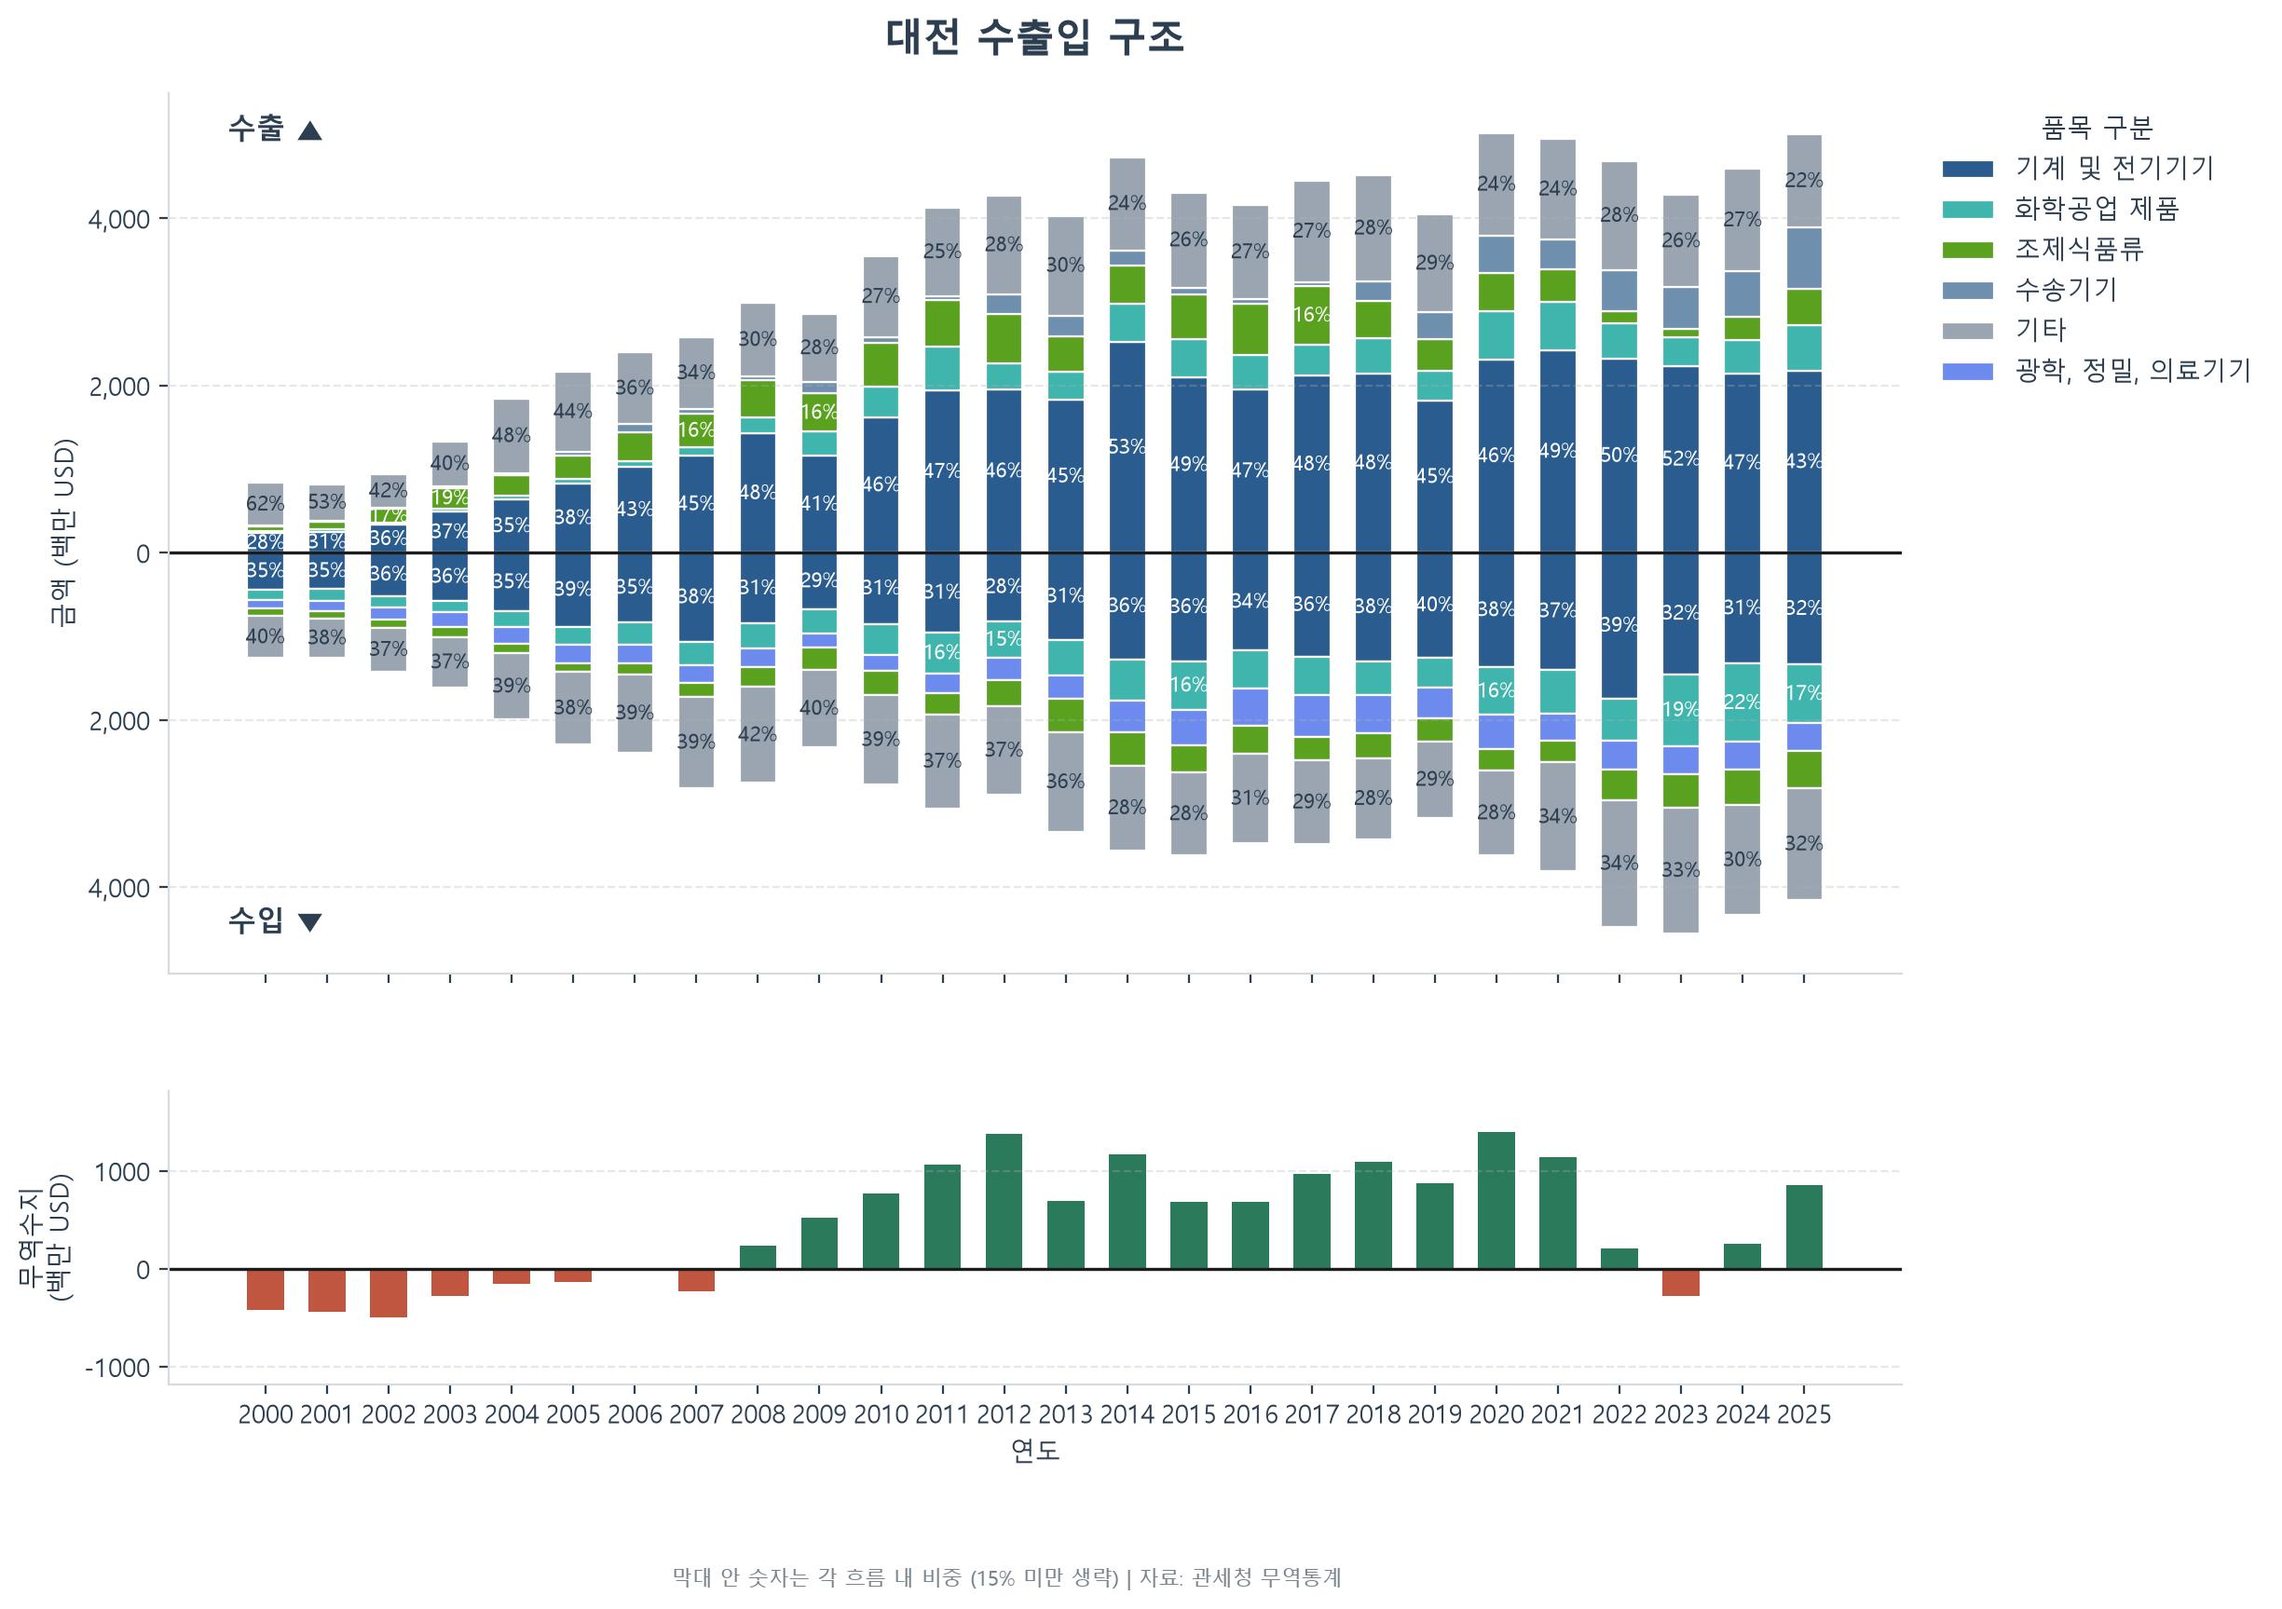
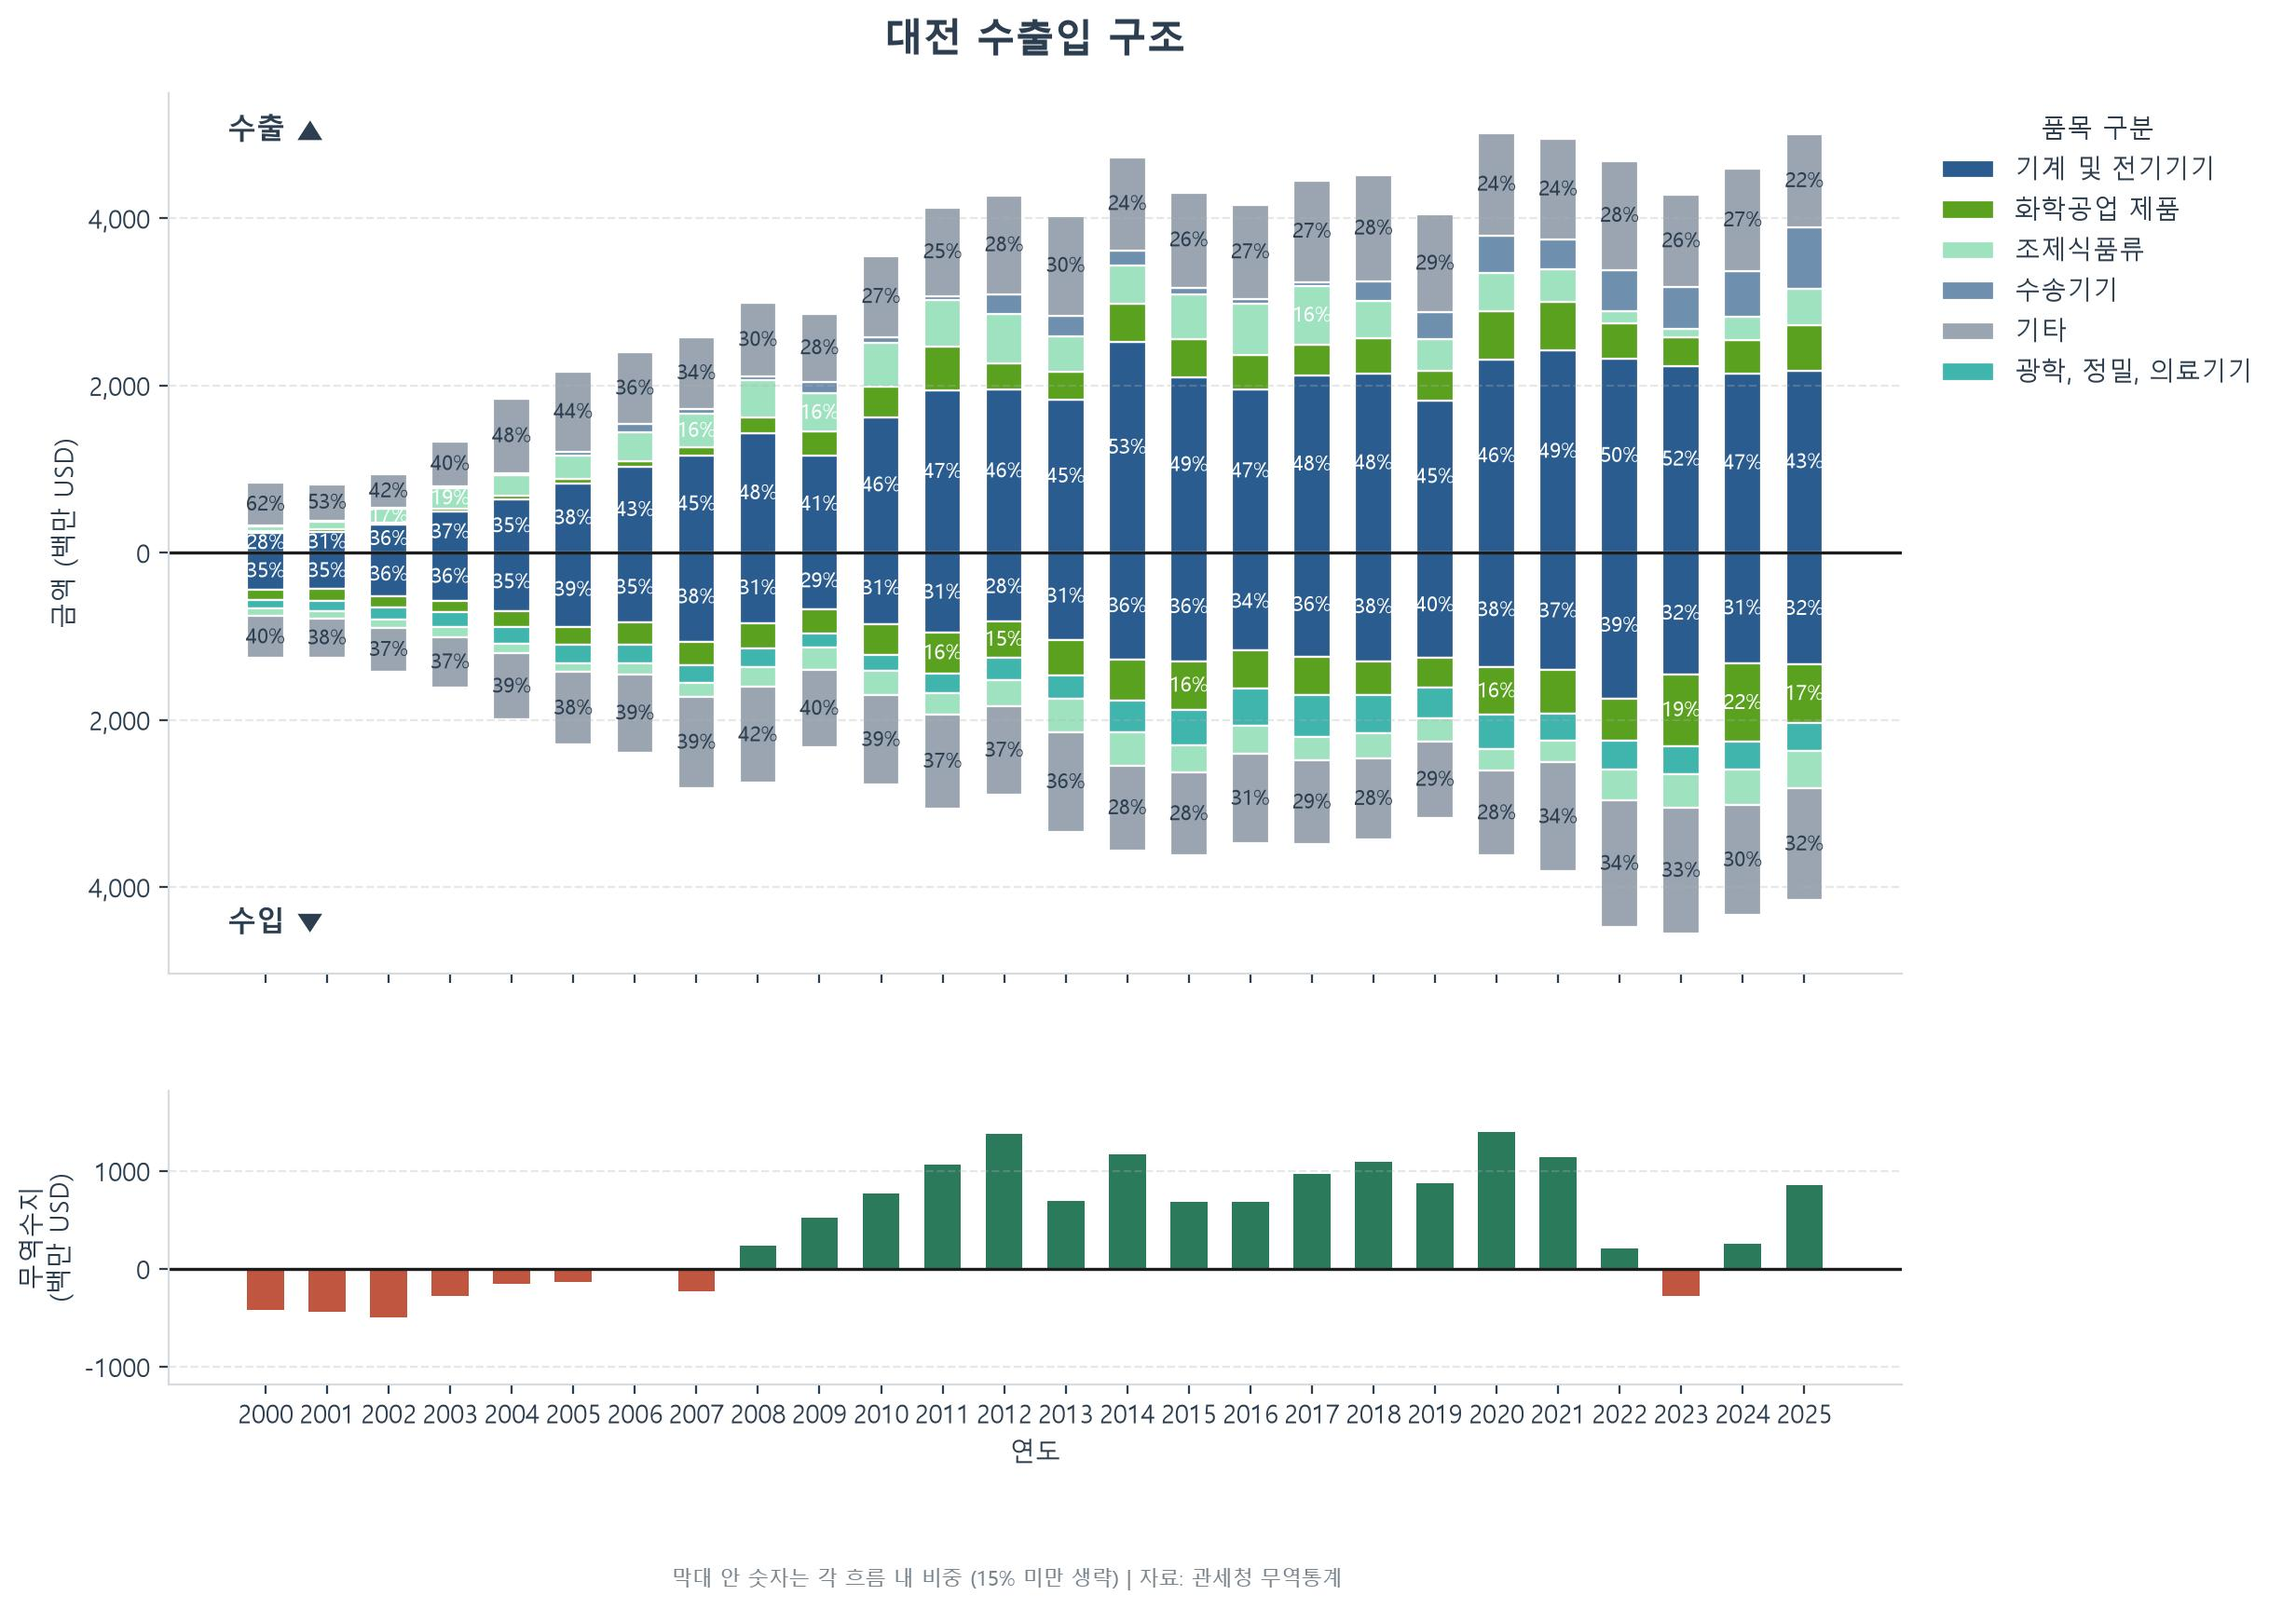
chore: TD_2 TD_3 revise the graphs feat: velification for zero data tradedata_2000_2025_1_merged.csv

diff --git a/src/tradedata_merged_clean.py b/src/tradedata_merged_clean.py
@@ -270,8 +270,8 @@ def check_roundtrip(path: Path, expected: pd.DataFrame) -> None:
 
 
 def report_zero_patterns(grid: pd.DataFrame) -> None:
-    """관세청's regional series has no national row; the sum of all 17 시도 matches
-    KITA's 전국 to rounding, so it stands in for one."""
+    """Flag zero and rounding patterns in reported rows before the 17 시도 are
+    summed into a national series; bad rows here would propagate into 전국."""
     reported = grid[~grid["원자료없음"]]
     patterns = {
         "no_trade": (reported[VALUE_COLS] == 0).all(axis=1),
@@ -285,19 +285,32 @@ def report_zero_patterns(grid: pd.DataFrame) -> None:
         ).abs()
         > 1,
     }
-    summery = pd.DataFrame(
+    summary = pd.DataFrame(
         {name: mask.groupby(reported["지역"]).sum() for name, mask in patterns.items()}
     )
 
     print("\n--- Zero patterns in reported rows ---")
     print(
-        summery.loc[summery.sum(axis=1).sort_values(ascending=False).index].to_string()
+        summary.loc[summary.sum(axis=1).sort_values(ascending=False).index].to_string()
     )
     errors = ["export_no_count", "import_no_count", "balance_mismatch"]
     suspicious = reported[pd.concat([patterns[e] for e in errors], axis=1).any(axis=1)]
     if not suspicious.empty:
         print(f"\n{len(suspicious)}rows need a look:")
         print(suspicious[GRID_KEYS + VALUE_COLS].to_string())
+    print("\n---Rows with rounded trade amounts---")
+    export_value = reported[patterns["export_rounded"]]
+    import_value = reported[patterns["import_rounded"]]
+
+    print(f"\n{export_value["수출건수"].describe()}")
+    print(f"\n{import_value["수입건수"].describe()}")
+    print("\n---Top3 import / export counts")
+    print(f"\n{export_value.nlargest(3, "수출건수")[
+            GRID_KEYS + ["수출건수", "수출금액"]
+        ].to_string()}")
+    print(f"\n{import_value.nlargest(3, "수입건수")[
+            GRID_KEYS + ["수입건수", "수입금액"]
+        ].to_string()}")
 
 
 def run(df: pd.DataFrame) -> pd.DataFrame:

diff --git a/src/vs/TD_3_Chung_trade_flow.py b/src/vs/TD_3_Chung_trade_flow.py
@@ -23,8 +23,7 @@ import random
 SRC_DIR = Path(__file__).resolve().parents[1]
 BASE_DIR = SRC_DIR.parent
 sys.path.insert(0, str(SRC_DIR))
-from core.utils_chart import PALETTE, PALETTE_CYCLE, save, use_korean_font
-from TD_2_DJ_trade_flow import COLORS_BASIC
+from core.utils_chart import PALETTE, TRADE_DATA, save, use_korean_font
 
 data_dir = BASE_DIR / "data" / "processed"
 FILE_PATH = data_dir / "tradedata_2000_2025_4_added.csv"
@@ -66,10 +65,10 @@ def sections_check():
     """Find the top commodity groups over the past 10 years based on average sectional import and export values."""
     frame = df[df["기간"].gt(2015)]
     year = frame.groupby(["부명약칭", "기간"], as_index=False)[
-        ["수출비중", "수입비중"]
+        ["수출금액", "수입금액"]
     ].sum()
-    ex_ratio = year.groupby("부명약칭")["수출비중"].mean()
-    im_ratio = year.groupby("부명약칭")["수입비중"].mean()
+    ex_ratio = year.groupby("부명약칭")["수출금액"].mean()
+    im_ratio = year.groupby("부명약칭")["수입금액"].mean()
 
     debug_print("\nExport Rank(2016~2025):")
     debug_print(ex_ratio.nlargest(5).to_string())
@@ -81,16 +80,7 @@ def sections_check():
     return EX_GROUPS, IM_GROUPS
 
 
-def build_section_colors(sections):
-    colors = COLORS_BASIC.copy()
-    remaining = sorted(set(sections) - set(colors))
-    available_colors = list(PALETTE_CYCLE.values())
-
-    random.shuffle(available_colors)
-
-    for i, section in enumerate(remaining):
-        colors[section] = available_colors[i % len(available_colors)]
-    return colors
+COLORS_BASIC = TRADE_DATA
 
 
 def plot_trade_diverging():
@@ -125,8 +115,7 @@ def plot_trade_diverging():
         2, 1, figsize=(12, 9), sharex=True, gridspec_kw={"height_ratios": [3, 1]}
     )
 
-    groups = list(dict.fromkeys(EX_GROUPS + IM_GROUPS + ["기타"]))
-    COLORS = build_section_colors(groups)
+    COLORS = COLORS_BASIC.copy()
     seen_labels = set()
 
     for frame, plot_groups, sign in (

diff --git a/src/vs/TD_2_DJ_trade_flow.py b/src/vs/TD_2_DJ_trade_flow.py
@@ -23,7 +23,7 @@ import random
 SRC_DIR = Path(__file__).resolve().parents[1]
 BASE_DIR = SRC_DIR.parent
 sys.path.insert(0, str(SRC_DIR))
-from core.utils_chart import PALETTE, PALETTE_CYCLE, save, use_korean_font
+from core.utils_chart import PALETTE, TRADE_DATA, save, use_korean_font
 
 data_dir = BASE_DIR / "data" / "processed"
 FILE_PATH = data_dir / "tradedata_2000_2025_4_added.csv"
@@ -46,23 +46,7 @@ def debug_print(*args, **kwargs):
 
 balance = df.groupby("기간")["무역수지"].sum() / MILLION
 
-COLORS_BASIC = {
-    "기계 및 전기기기": PALETTE["primary"],
-    "기타": PALETTE["muted"],
-}
-
-
-def build_section_colors(sections):
-    colors = COLORS_BASIC.copy()
-
-    remaining = sorted(set(sections) - set(colors))
-    available_colors = list(PALETTE_CYCLE.values())
-
-    random.shuffle(available_colors)
-
-    for i, section in enumerate(remaining):
-        colors[section] = available_colors[i % len(available_colors)]
-    return colors
+COLORS_BASIC = TRADE_DATA
 
 
 def balance_table() -> pd.DataFrame:
@@ -129,8 +113,7 @@ def plot_trade_diverging():
         2, 1, figsize=(12, 9), sharex=True, gridspec_kw={"height_ratios": [3, 1]}
     )
 
-    groups = list(dict.fromkeys(EX_GROUPS + IM_GROUPS + ["기타"]))
-    COLORS = build_section_colors(groups)
+    COLORS = COLORS_BASIC.copy()
     seen_labels = set()
 
     for frame, plot_groups, sign in (
@@ -168,12 +151,6 @@ def plot_trade_diverging():
                     color="#2c3e50" if section == "기타" else "white",
                 )
             bottom += values
-
-    print("\n--- Common sections ---")
-    print(f"{section}: " f"TD_2={COLORS[section]}")
-
-    print("\n--- Duplicate colors ---")
-    print(len(COLORS.values()), len(set(COLORS.values())))
 
     ax.axhline(0, color="#1c1c1c", linewidth=1.2)
     ax.set_ylabel("금액 (백만 USD)")

diff --git a/src/core/utils_chart.py b/src/core/utils_chart.py
@@ -40,14 +40,16 @@ PALETTE = {
     "7": "#CCCCFF",
 }
 
-PALETTE_CYCLE = {
-    0: PALETTE["1"],
-    1: PALETTE["2"],
-    2: PALETTE["3"],
-    3: PALETTE["4"],
-    4: PALETTE["5"],
-    5: PALETTE["6"],
-    6: PALETTE["7"],
+TRADE_DATA = {
+    "기계 및 전기기기": PALETTE["primary"],
+    "수송기기": PALETTE["1"],
+    "광학, 정밀, 의료기기": PALETTE["2"],
+    "조제식품류": PALETTE["3"],
+    "화학공업 제품": PALETTE["4"],
+    "광물성 생산품": PALETTE["5"],
+    "플라스틱 및 고무 제품": PALETTE["6"],
+    "비금속 및 그 제품": PALETTE["7"],
+    "기타": PALETTE["muted"],
 }
 
 

diff --git a/README.md b/README.md
@@ -140,6 +140,40 @@ SQL 단계는 MySQL 문법이며 SQL 클라이언트에서 직접 실행한다.
 | HS 류 → 부 매핑 | 누락·중복 매핑 없음 |
 | 충남(세종 포함) vs 충남 + 세종 | 두 자료 모두 정확히 일치 |
 | CSV 재로딩 | 모든 출력을 다시 읽어 저장 전 데이터와 비교 |
+Half of the export-rounded rows have a single declaration, and three quarters have at most 2 (imports: median 2, 75% at 3). That’s what “a few tiny shipments rounded to 0 천불” looks like.
+---Rows with rounded trade amounts---
+
+count    606.000000
+mean       1.702970
+std        2.132214
+min        1.000000
+25%        1.000000
+50%        1.000000
+75%        2.000000
+max       25.000000
+Name: 수출건수, dtype: float64
+
+count    509.000000
+mean       3.117878
+std        4.358657
+min        1.000000
+25%        1.000000
+50%        2.000000
+75%        3.000000
+max       35.000000
+Name: 수입건수, dtype: float64
+
+---Top3 export counts
+
+            지역    기간 류코드  수출건수  수출금액
+11313    광주광역시  2012  66  25.0   0.0
+37502  제주특별자치도  2022  65  22.0   0.0
+14690    대구광역시  2021  46  18.0   0.0
+
+            지역    기간 류코드  수입건수  수입금액
+40345     충청남도  2025  50  35.0   0.0
+2418   강원특별자치도  2024  50  31.0   0.0
+27638    울산광역시  2024  50  31.0   0.0
 
 ### 관세청 vs K-stat 교차 검증
 
